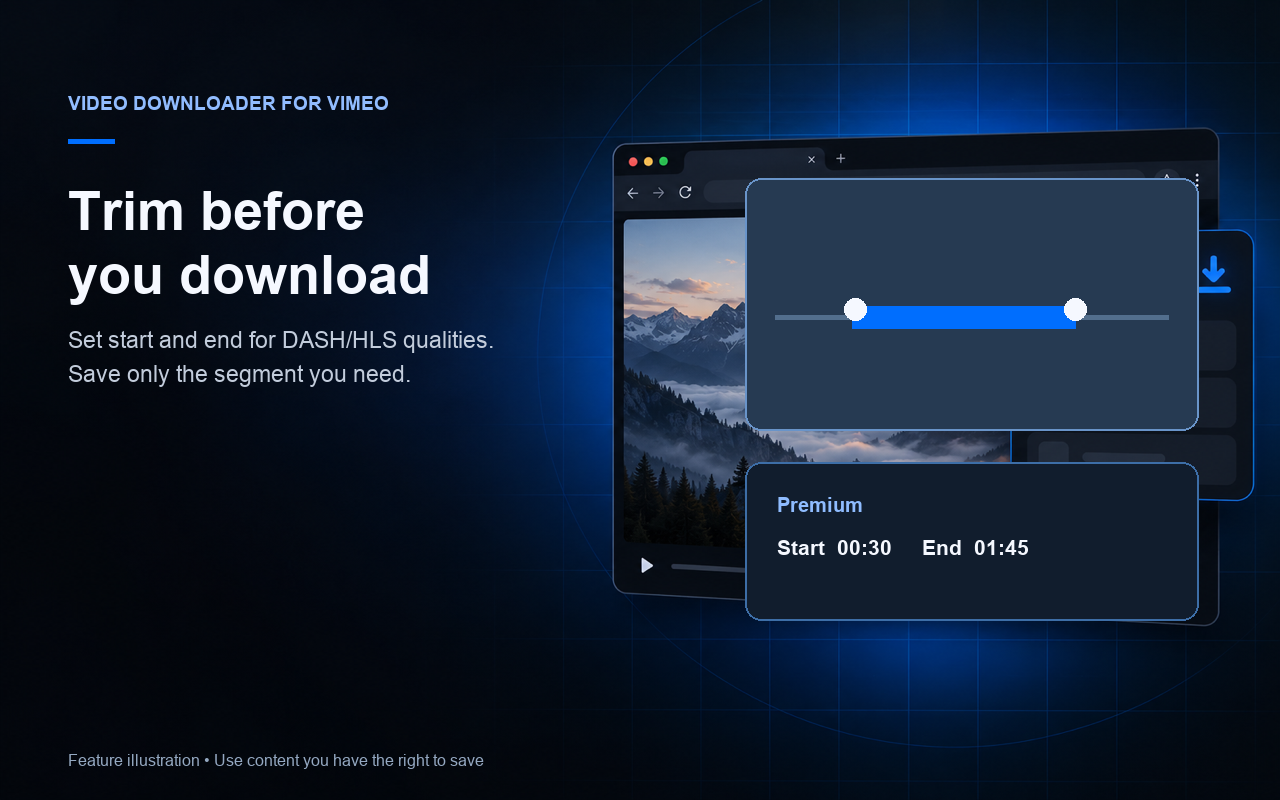
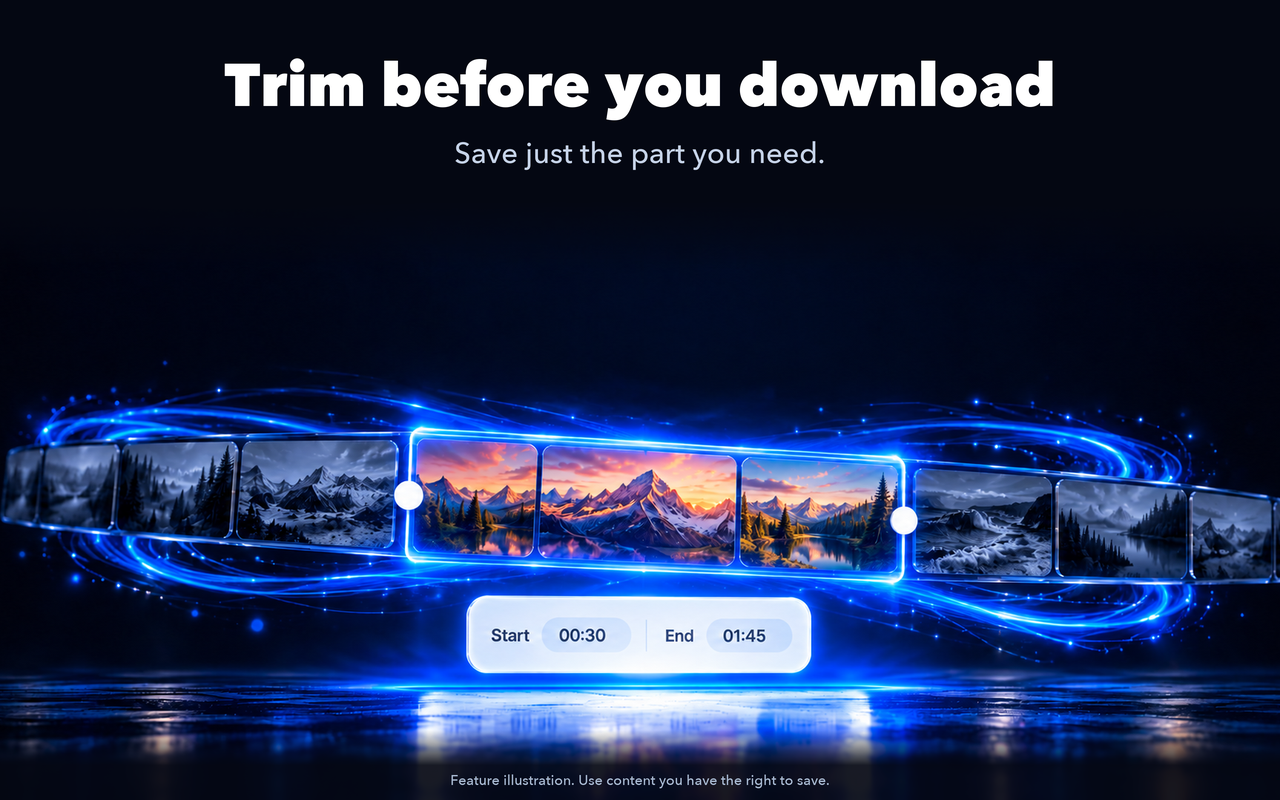
更新 Chrome 商店素材并去掉文案中的 Premium 标注
- 更换 7 张商店图：01/02/03/05 换新图并改名，04/06/07 原名替换；listing.md 同步文件名与说明
- 14 个语言的商店说明删除 Premium 字样，功能描述不再标收费
- 删除商店图生成脚本 build_store_images.py

diff --git a/docs/store/locales/th.md b/docs/store/locales/th.md
@@ -6,7 +6,7 @@ Vimeo Downloader เพิ่มปุ่มดาวน์โหลดไว้
 
 - เลือกคุณภาพวิดีโอใดก็ได้ที่ต้นทางมีให้
 - บันทึกวิดีโอ เสียง และภาพปกเป็นไฟล์แยกกัน
-- ใช้ Premium เพื่อตัดช่วง DASH หรือ HLS ก่อนดาวน์โหลด
+- ตัดช่วง DASH หรือ HLS ก่อนดาวน์โหลด
 - จัดคิวการดาวน์โหลดหลายรายการและท่องเว็บต่อได้
 - จัดการไฟล์ขนาดใหญ่ด้วยการแบ่งไฟล์อัตโนมัติหรือสตรีมเป็นไฟล์เดียว
 - ตรวจสอบความคืบหน้า ข้อผิดพลาด รายการที่เสร็จแล้ว และประวัติการดาวน์โหลดในป๊อปอัป
@@ -15,4 +15,4 @@ Vimeo Downloader เพิ่มปุ่มดาวน์โหลดไว้
 
 เหมาะสำหรับบันทึกบทเรียน Vimeo พอร์ตโฟลิโอ การสาธิตสินค้า บทสัมภาษณ์ หรือคลิปอ้างอิงที่คุณมีสิทธิ์บันทึก เพื่อดูแบบออฟไลน์หรือนำไปตัดต่อ ขั้นตอนเดียวบนหน้าเว็บช่วยจัดการวิดีโอ เสียง และภาพปกเข้าด้วยกัน โดยรูปแบบและคุณภาพจะเป็นไปตามตัวเลือกจากต้นทาง
 
-วิธีใช้คือเปิดหน้า Vimeo ที่รองรับ เลือกวิดีโอ เสียง หรือภาพปก เลือกคุณภาพที่มี แล้วเพิ่มงานลงคิว ป๊อปอัปจะแสดงสถานะขณะคุณท่องเว็บต่อได้ สำหรับสื่อ DASH และ HLS ที่รองรับ Premium สามารถดาวน์โหลดเฉพาะช่วงเวลาที่ต้องการ
+วิธีใช้คือเปิดหน้า Vimeo ที่รองรับ เลือกวิดีโอ เสียง หรือภาพปก เลือกคุณภาพที่มี แล้วเพิ่มงานลงคิว ป๊อปอัปจะแสดงสถานะขณะคุณท่องเว็บต่อได้ สำหรับสื่อ DASH และ HLS ที่รองรับ คุณสามารถดาวน์โหลดเฉพาะช่วงเวลาที่ต้องการ

diff --git a/docs/store/locales/ru.md b/docs/store/locales/ru.md
@@ -6,7 +6,7 @@ Vimeo Downloader добавляет управление загрузкой пр
 
 - Выбирайте любое качество, доступное у источника.
 - Сохраняйте видео, аудио и обложку отдельными файлами.
-- С Premium обрезайте диапазон DASH или HLS перед загрузкой.
+- Обрезайте диапазон DASH или HLS перед загрузкой.
 - Добавляйте несколько загрузок в очередь и продолжайте работу в браузере.
 - Обрабатывайте большие файлы с автоматическим разделением или потоковой записью в один файл.
 - Смотрите прогресс, ошибки, завершённые загрузки и историю в окне расширения.
@@ -15,4 +15,4 @@ Vimeo Downloader добавляет управление загрузкой пр
 
 Расширение подходит для сохранения разрешённых к скачиванию лекций Vimeo, портфолио, демонстраций продуктов, интервью и справочных клипов для просмотра офлайн или монтажа. На странице можно в одном рабочем процессе сохранять видео, аудио и обложку, а формат и качество определяются вариантами, которые предоставляет источник.
 
-Откройте поддерживаемую страницу Vimeo, выберите видео, аудио или обложку, укажите доступное качество и добавьте загрузку в очередь. В окне расширения можно следить за состоянием и продолжать работу в браузере. Для поддерживаемых DASH и HLS Premium позволяет скачать только нужный временной диапазон.
+Откройте поддерживаемую страницу Vimeo, выберите видео, аудио или обложку, укажите доступное качество и добавьте загрузку в очередь. В окне расширения можно следить за состоянием и продолжать работу в браузере. Для поддерживаемых DASH и HLS можно скачать только нужный временной диапазон.

diff --git a/docs/store/locales/fr.md b/docs/store/locales/fr.md
@@ -6,7 +6,7 @@ Avantages :
 
 - Choisissez toute qualité vidéo proposée par la source.
 - Enregistrez la vidéo, l’audio et la vignette dans des sorties séparées.
-- Découpez une plage DASH ou HLS avant le téléchargement avec Premium.
+- Découpez une plage DASH ou HLS avant le téléchargement.
 - Placez plusieurs téléchargements dans une file et continuez votre navigation.
 - Gérez les gros fichiers avec le découpage automatique ou le streaming en un seul fichier.
 - Consultez la progression, les erreurs, les fins de téléchargement et l’historique dans la fenêtre popup.
@@ -15,4 +15,4 @@ L’extension fonctionne sur les pages compatibles de vimeo.com et player.vimeo.
 
 Vous pouvez l’utiliser pour enregistrer un cours Vimeo, un portfolio, une démonstration produit, une interview ou un extrait de référence que vous êtes autorisé à conserver, pour une lecture hors connexion ou un montage. Le flux depuis la page regroupe les téléchargements de vidéo, d’audio et de vignette, selon les formats et qualités proposés par la source.
 
-Le parcours est simple : ouvrez une page Vimeo compatible, choisissez la vidéo, l’audio ou la vignette, sélectionnez la qualité disponible, puis ajoutez le téléchargement à la file. La fenêtre popup affiche l’état pendant que vous continuez à naviguer. Avec les médias DASH et HLS compatibles, Premium permet de télécharger uniquement la plage nécessaire.
+Le parcours est simple : ouvrez une page Vimeo compatible, choisissez la vidéo, l’audio ou la vignette, sélectionnez la qualité disponible, puis ajoutez le téléchargement à la file. La fenêtre popup affiche l’état pendant que vous continuez à naviguer. Avec les médias DASH et HLS compatibles, vous pouvez télécharger uniquement la plage nécessaire.

diff --git a/docs/store/locales/de.md b/docs/store/locales/de.md
@@ -6,7 +6,7 @@ Vorteile:
 
 - Jede von der Quelle angebotene Videoqualität auswählen.
 - Video, Audio und Titelbild als getrennte Ausgaben speichern.
-- Mit Premium einen DASH- oder HLS-Zeitbereich vor dem Download zuschneiden.
+- Einen DASH- oder HLS-Zeitbereich vor dem Download zuschneiden.
 - Mehrere Downloads in eine Warteschlange stellen und weiterarbeiten.
 - Große Dateien automatisch teilen oder als eine Datei streamen.
 - Fortschritt, Abschluss, Fehler und Download-Verlauf im Popup sehen.
@@ -15,4 +15,4 @@ Die Erweiterung funktioniert auf unterstützten Seiten von vimeo.com und player.
 
 Typische Anwendungen sind das Speichern eines berechtigten Vimeo-Kursvideos, Portfolios, Produktdemos, Interviews oder Referenzclips für die Offline-Wiedergabe oder Bearbeitung. Der seitenbasierte Ablauf bündelt Video, Audio und Titelbild; Format und Qualität richten sich nach den Medienoptionen der Quelle.
 
-So funktioniert es: Öffne eine unterstützte Vimeo-Seite, wähle Video, Audio oder Titelbild, entscheide dich für die verfügbare Qualität und stelle den Download in die Warteschlange. Der Popup-Status bleibt sichtbar, während du weiterarbeitest. Bei unterstützten DASH- und HLS-Medien kann Premium nur den benötigten Zeitbereich herunterladen.
+So funktioniert es: Öffne eine unterstützte Vimeo-Seite, wähle Video, Audio oder Titelbild, entscheide dich für die verfügbare Qualität und stelle den Download in die Warteschlange. Der Popup-Status bleibt sichtbar, während du weiterarbeitest. Bei unterstützten DASH- und HLS-Medien kannst du nur den benötigten Zeitbereich herunterladen.

diff --git a/docs/store/locales/es.md b/docs/store/locales/es.md
@@ -6,7 +6,7 @@ Ventajas:
 
 - Elige cualquier calidad de vídeo disponible en la fuente.
 - Guarda el vídeo, el audio y la portada como salidas independientes.
-- Recorta un intervalo DASH o HLS antes de descargar con Premium.
+- Recorta un intervalo DASH o HLS antes de descargar.
 - Pon varias descargas en cola y sigue navegando mientras avanzan.
 - Gestiona archivos grandes con división automática o transmisión en un solo archivo.
 - Consulta el progreso, los errores, las finalizaciones y el historial en la ventana emergente.
@@ -15,4 +15,4 @@ La extensión funciona en páginas compatibles de vimeo.com y player.vimeo.com. 
 
 Puedes usarlo para guardar una clase de Vimeo, un portafolio, una demostración de producto, una entrevista o un clip de referencia que tengas autorización para conservar, ya sea para reproducirlo sin conexión o editarlo. El flujo desde la página reúne las descargas de vídeo, audio y portada, y respeta el formato y la calidad que ofrece la fuente.
 
-El flujo es sencillo: abre una página de Vimeo compatible, elige vídeo, audio o portada, selecciona la calidad disponible y añade la descarga a la cola. El popup mantiene visible el estado mientras sigues navegando. En medios DASH y HLS compatibles, Premium permite descargar solo el intervalo que necesitas.
+El flujo es sencillo: abre una página de Vimeo compatible, elige vídeo, audio o portada, selecciona la calidad disponible y añade la descarga a la cola. El popup mantiene visible el estado mientras sigues navegando. En medios DASH y HLS compatibles, puedes descargar solo el intervalo que necesitas.

diff --git a/docs/store/locales/pt.md b/docs/store/locales/pt.md
@@ -6,7 +6,7 @@ Vantagens:
 
 - Escolha qualquer qualidade de vídeo oferecida pela fonte.
 - Salve vídeo, áudio e capa como arquivos separados.
-- Corte um intervalo DASH ou HLS antes do download com o Premium.
+- Corte um intervalo DASH ou HLS antes do download.
 - Coloque vários downloads em uma fila e continue navegando.
 - Lide com arquivos grandes usando divisão automática ou streaming em um único arquivo.
 - Acompanhe progresso, falhas, conclusões e histórico no popup.
@@ -15,4 +15,4 @@ A extensão funciona em páginas compatíveis de vimeo.com e player.vimeo.com. E
 
 Use a extensão para salvar uma aula do Vimeo, um portfólio, uma demonstração de produto, uma entrevista ou um clipe de referência que você tem autorização para conservar, para reprodução offline ou edição. O fluxo direto na página reúne o salvamento de vídeo, áudio e capa, seguindo o formato e a qualidade oferecidos pela fonte.
 
-O processo é simples: abra uma página Vimeo compatível, escolha vídeo, áudio ou capa, selecione a qualidade disponível e coloque o download na fila. O popup mostra o estado enquanto você continua navegando. Para mídia DASH e HLS compatível, o Premium permite baixar apenas o intervalo necessário.
+O processo é simples: abra uma página Vimeo compatível, escolha vídeo, áudio ou capa, selecione a qualidade disponível e coloque o download na fila. O popup mostra o estado enquanto você continua navegando. Para mídia DASH e HLS compatível, você pode baixar apenas o intervalo necessário.

diff --git a/docs/store/locales/id.md b/docs/store/locales/id.md
@@ -6,7 +6,7 @@ Keunggulan:
 
 - Pilih kualitas video apa pun yang ditawarkan sumber.
 - Simpan video, audio, dan gambar sampul sebagai keluaran terpisah.
-- Potong rentang waktu DASH atau HLS sebelum mengunduh dengan Premium.
+- Potong rentang waktu DASH atau HLS sebelum mengunduh.
 - Masukkan beberapa unduhan ke antrean dan tetap menjelajah.
 - Tangani file besar dengan pemisahan otomatis atau streaming menjadi satu file.
 - Lihat progres, kegagalan, penyelesaian, dan riwayat unduhan di popup.
@@ -15,4 +15,4 @@ Ekstensi ini bekerja pada halaman vimeo.com dan player.vimeo.com yang didukung. 
 
 Gunakan ekstensi ini untuk menyimpan pelajaran Vimeo, portofolio, demo produk, wawancara, atau klip referensi yang boleh Anda simpan, untuk diputar offline atau diedit. Alur langsung dari halaman menyatukan penyimpanan video, audio, dan gambar sampul, dengan format dan kualitas mengikuti media yang disediakan sumber.
 
-Caranya: buka halaman Vimeo yang didukung, pilih video, audio, atau gambar sampul, tentukan kualitas yang tersedia, lalu masukkan unduhan ke antrean. Popup menampilkan status saat Anda tetap menjelajah. Untuk media DASH dan HLS yang didukung, Premium dapat mengunduh hanya rentang waktu yang diperlukan.
+Caranya: buka halaman Vimeo yang didukung, pilih video, audio, atau gambar sampul, tentukan kualitas yang tersedia, lalu masukkan unduhan ke antrean. Popup menampilkan status saat Anda tetap menjelajah. Untuk media DASH dan HLS yang didukung, Anda dapat mengunduh hanya rentang waktu yang diperlukan.
